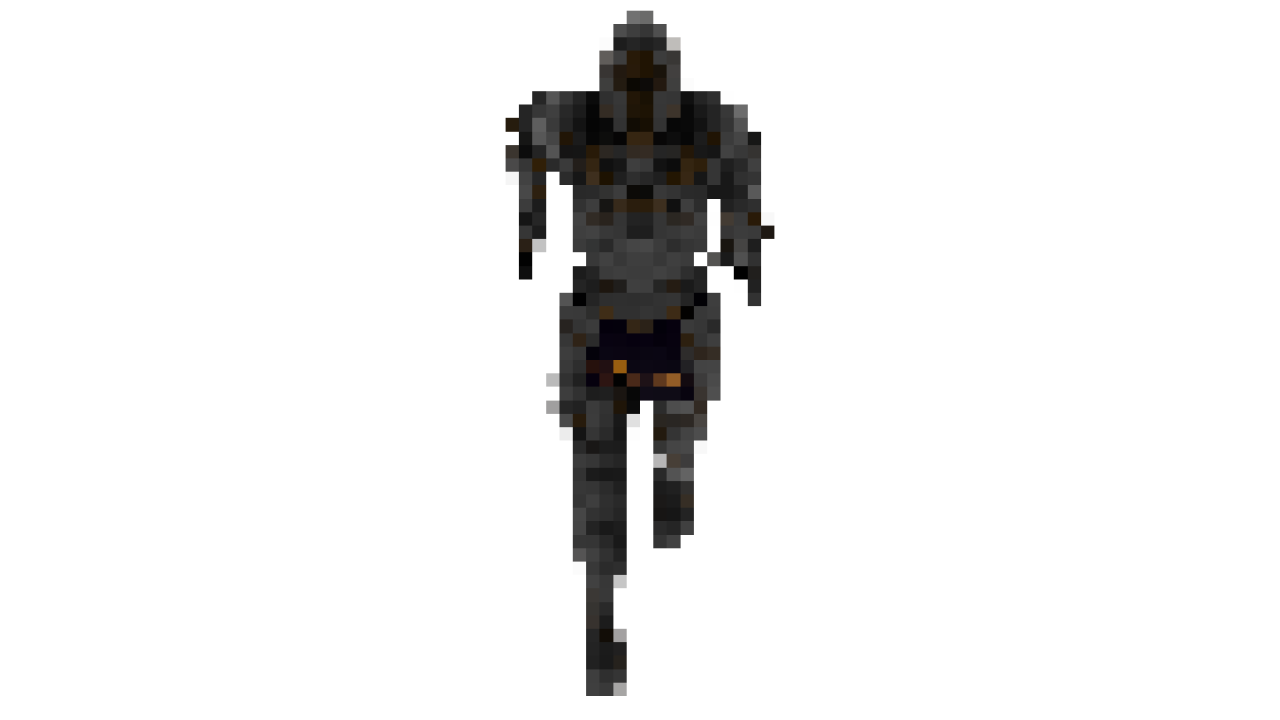
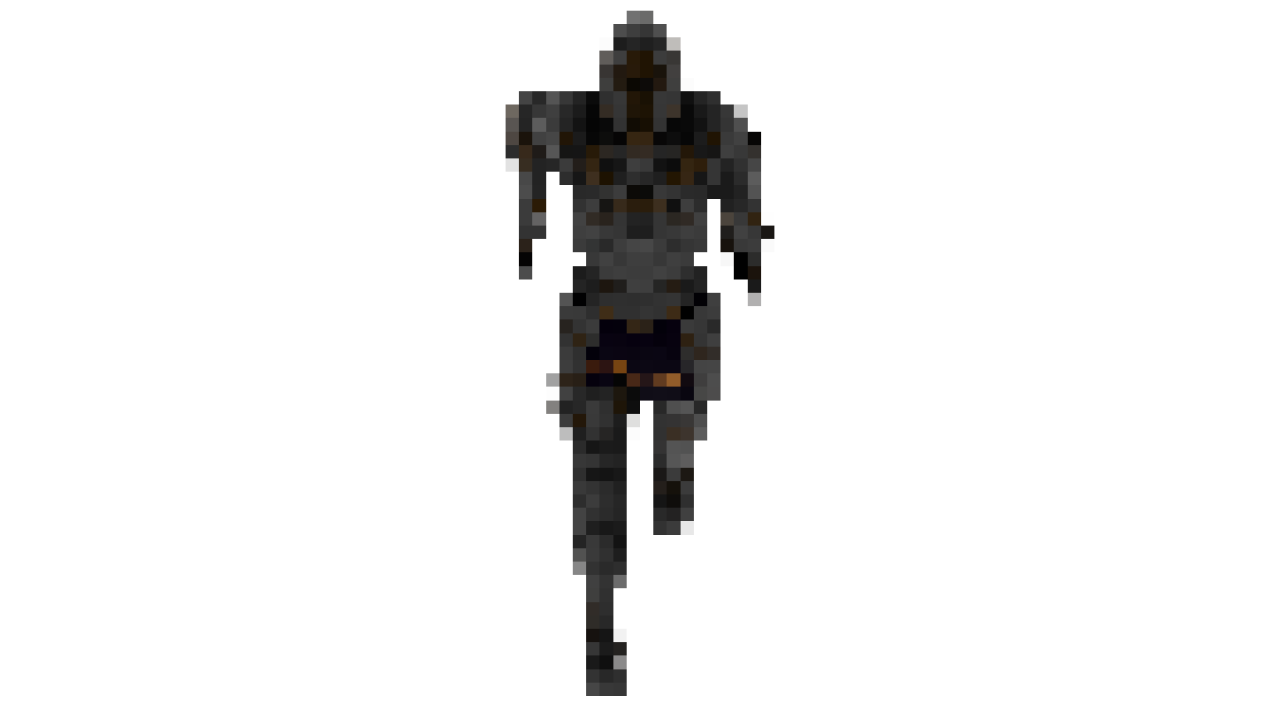
Player Animations

diff --git a/Sprites.py b/Sprites.py
@@ -1,5 +1,6 @@
 import pygame
 from Settings import *
+from os import path
 
 vec = pygame.math.Vector2
 
@@ -9,11 +10,64 @@ class Player(pygame.sprite.Sprite):
 
         self.groups = game.all_sprites
 
+        game_folder = path.dirname(__file__)
+
+        player_img_dir = path.join(game_folder, "images\\Chars\\Player")
+
+        self.simgs = []
+        self.simgs.append(pygame.image.load(path.join(player_img_dir, 's_walk_0.png')).convert_alpha())
+        self.simgs.append(pygame.image.load(path.join(player_img_dir, 's_walk_1.png')).convert_alpha())
+        self.simgs.append(pygame.image.load(path.join(player_img_dir, 's_walk_2.png')).convert_alpha())
+        self.simgs.append(pygame.image.load(path.join(player_img_dir, 's_walk_3.png')).convert_alpha())
+        self.simgs.append(pygame.image.load(path.join(player_img_dir, 's_walk_4.png')).convert_alpha())
+        self.simgs.append(pygame.image.load(path.join(player_img_dir, 's_walk_5.png')).convert_alpha())
+        self.simgs.append(pygame.image.load(path.join(player_img_dir, 's_walk_6.png')).convert_alpha())
+        self.simgs.append(pygame.image.load(path.join(player_img_dir, 's_walk_7.png')).convert_alpha())
+        self.simgs.append(pygame.image.load(path.join(player_img_dir, 's_walk_8.png')).convert_alpha())
+        self.simgs.append(pygame.image.load(path.join(player_img_dir, 's_walk_9.png')).convert_alpha())
+        self.simgs.append(pygame.image.load(path.join(player_img_dir, 's_walk_10.png')).convert_alpha())
+        self.simgs.append(pygame.image.load(path.join(player_img_dir, 's_walk_11.png')).convert_alpha())
+        self.simgs.append(pygame.image.load(path.join(player_img_dir, 's_walk_12.png')).convert_alpha())
+        
+        self.eimgs = []
+        self.eimgs.append(pygame.image.load(path.join(player_img_dir, 'e_walk_0.png')).convert_alpha())
+        self.eimgs.append(pygame.image.load(path.join(player_img_dir, 'e_walk_1.png')).convert_alpha())
+        self.eimgs.append(pygame.image.load(path.join(player_img_dir, 'e_walk_2.png')).convert_alpha())
+        self.eimgs.append(pygame.image.load(path.join(player_img_dir, 'e_walk_3.png')).convert_alpha())
+        self.eimgs.append(pygame.image.load(path.join(player_img_dir, 'e_walk_4.png')).convert_alpha())
+        self.eimgs.append(pygame.image.load(path.join(player_img_dir, 'e_walk_5.png')).convert_alpha())
+        self.eimgs.append(pygame.image.load(path.join(player_img_dir, 'e_walk_6.png')).convert_alpha())
+        self.eimgs.append(pygame.image.load(path.join(player_img_dir, 'e_walk_7.png')).convert_alpha())
+        self.eimgs.append(pygame.image.load(path.join(player_img_dir, 'e_walk_8.png')).convert_alpha())
+        self.eimgs.append(pygame.image.load(path.join(player_img_dir, 'e_walk_9.png')).convert_alpha())
+        self.eimgs.append(pygame.image.load(path.join(player_img_dir, 'e_walk_10.png')).convert_alpha())
+        self.eimgs.append(pygame.image.load(path.join(player_img_dir, 'e_walk_11.png')).convert_alpha())
+        self.eimgs.append(pygame.image.load(path.join(player_img_dir, 'e_walk_12.png')).convert_alpha())
+        
+        self.nimgs = []
+        self.nimgs.append(pygame.image.load(path.join(player_img_dir, 'n_walk_0.png')).convert_alpha())
+        self.nimgs.append(pygame.image.load(path.join(player_img_dir, 'n_walk_1.png')).convert_alpha())
+        self.nimgs.append(pygame.image.load(path.join(player_img_dir, 'n_walk_2.png')).convert_alpha())
+        self.nimgs.append(pygame.image.load(path.join(player_img_dir, 'n_walk_3.png')).convert_alpha())
+        self.nimgs.append(pygame.image.load(path.join(player_img_dir, 'n_walk_4.png')).convert_alpha())
+        self.nimgs.append(pygame.image.load(path.join(player_img_dir, 'n_walk_5.png')).convert_alpha())
+        self.nimgs.append(pygame.image.load(path.join(player_img_dir, 'n_walk_6.png')).convert_alpha())
+        self.nimgs.append(pygame.image.load(path.join(player_img_dir, 'n_walk_7.png')).convert_alpha())
+        self.nimgs.append(pygame.image.load(path.join(player_img_dir, 'n_walk_8.png')).convert_alpha())
+        self.nimgs.append(pygame.image.load(path.join(player_img_dir, 'n_walk_9.png')).convert_alpha())
+        self.nimgs.append(pygame.image.load(path.join(player_img_dir, 'n_walk_10.png')).convert_alpha())
+        self.nimgs.append(pygame.image.load(path.join(player_img_dir, 'n_walk_11.png')).convert_alpha())
+        self.nimgs.append(pygame.image.load(path.join(player_img_dir, 'n_walk_12.png')).convert_alpha())
+
+
+        self.index = 0
+
+        self.pimg = self.simgs[self.index]
+
         pygame.sprite.Sprite.__init__(self, self.groups)
 
         self.game = game
-        self.image = pygame.Surface((TILESIZE/1.5, TILESIZE/1.5))
-        self.image.fill(BLUE)
+        self.image = pygame.transform.scale(self.pimg, (64, 64))
         self.rect = self.image.get_rect()
         self.vel = vec(0,0)
         self.pos = vec(x,y) * TILESIZE
@@ -31,14 +85,32 @@ class Player(pygame.sprite.Sprite):
         if keys[pygame.K_RIGHT] or keys[pygame.K_d]:
 
             self.vel.x = PLAYER_SPEED
+            self.pimg = self.eimgs[self.index]
+            self.index += 1
+
+            if self.index >= len(self.eimgs):
+
+                self.index = 0
 
         if keys[pygame.K_UP] or keys[pygame.K_w]:
 
             self.vel.y = -PLAYER_SPEED
+            self.pimg = self.nimgs[self.index]
+            self.index += 1
+
+            if self.index >= len(self.nimgs):
+
+                self.index = 0
 
         if keys[pygame.K_DOWN] or keys[pygame.K_s]:
 
             self.vel.y = PLAYER_SPEED
+            self.pimg = self.simgs[self.index]
+            self.index += 1
+
+            if self.index >= len(self.simgs):
+
+                self.index = 0
 
         if self.vel.x != 0 and self.vel.y != 0:
 
@@ -83,6 +155,7 @@ class Player(pygame.sprite.Sprite):
     def update(self):
 
         self.get_keys()
+        self.image = pygame.transform.scale(self.pimg, (64, 64))
 
         self.pos += self.vel * self.game.dt
 

diff --git a/Main.py b/Main.py
@@ -24,11 +24,9 @@ class Game:
 
         walls_img_dir = path.join(game_folder, "images\\Wall")
         npc_img_dir = path.join(game_folder, "images\\Chars\\NPC")
-        player_img_dir = path.join(game_folder, "images\\Player")
 
         self.wall_img = pygame.image.load(path.join(walls_img_dir, WALL_IMG)).convert_alpha()
         self.NPC_img = pygame.image.load(path.join(npc_img_dir, NPC_IMG)).convert_alpha()
-        #self.player_img = pygame.image.load(path.join(player_img_dir, PLAYER_IMG)).convert_alpha()
 
 
         self.map = Map(path.join(game_folder, 'Maps\\World_Map.txt'))
